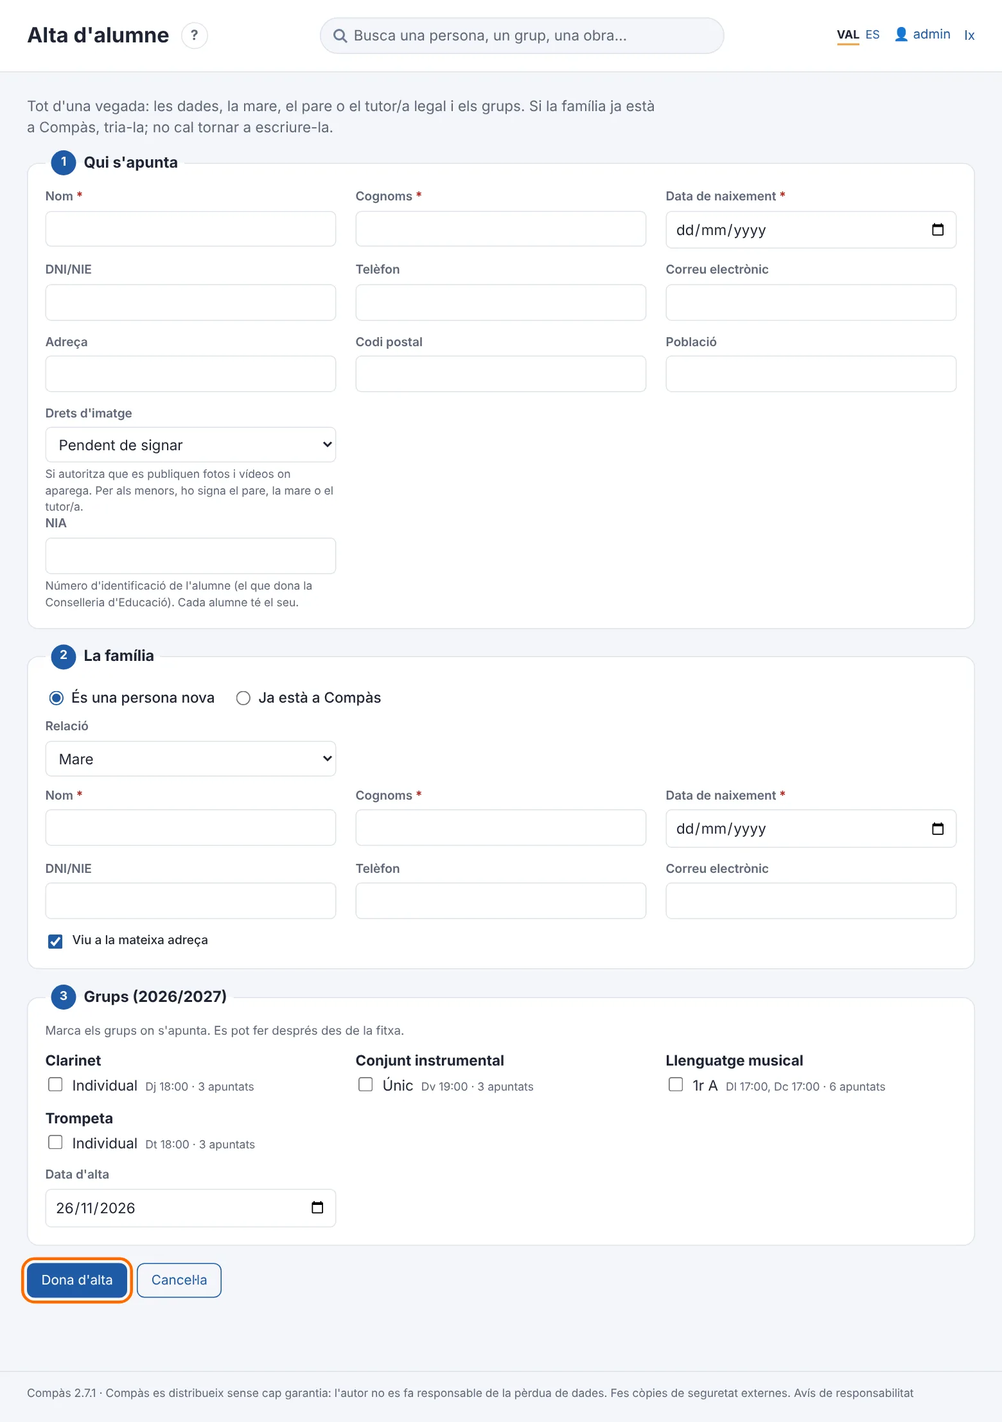
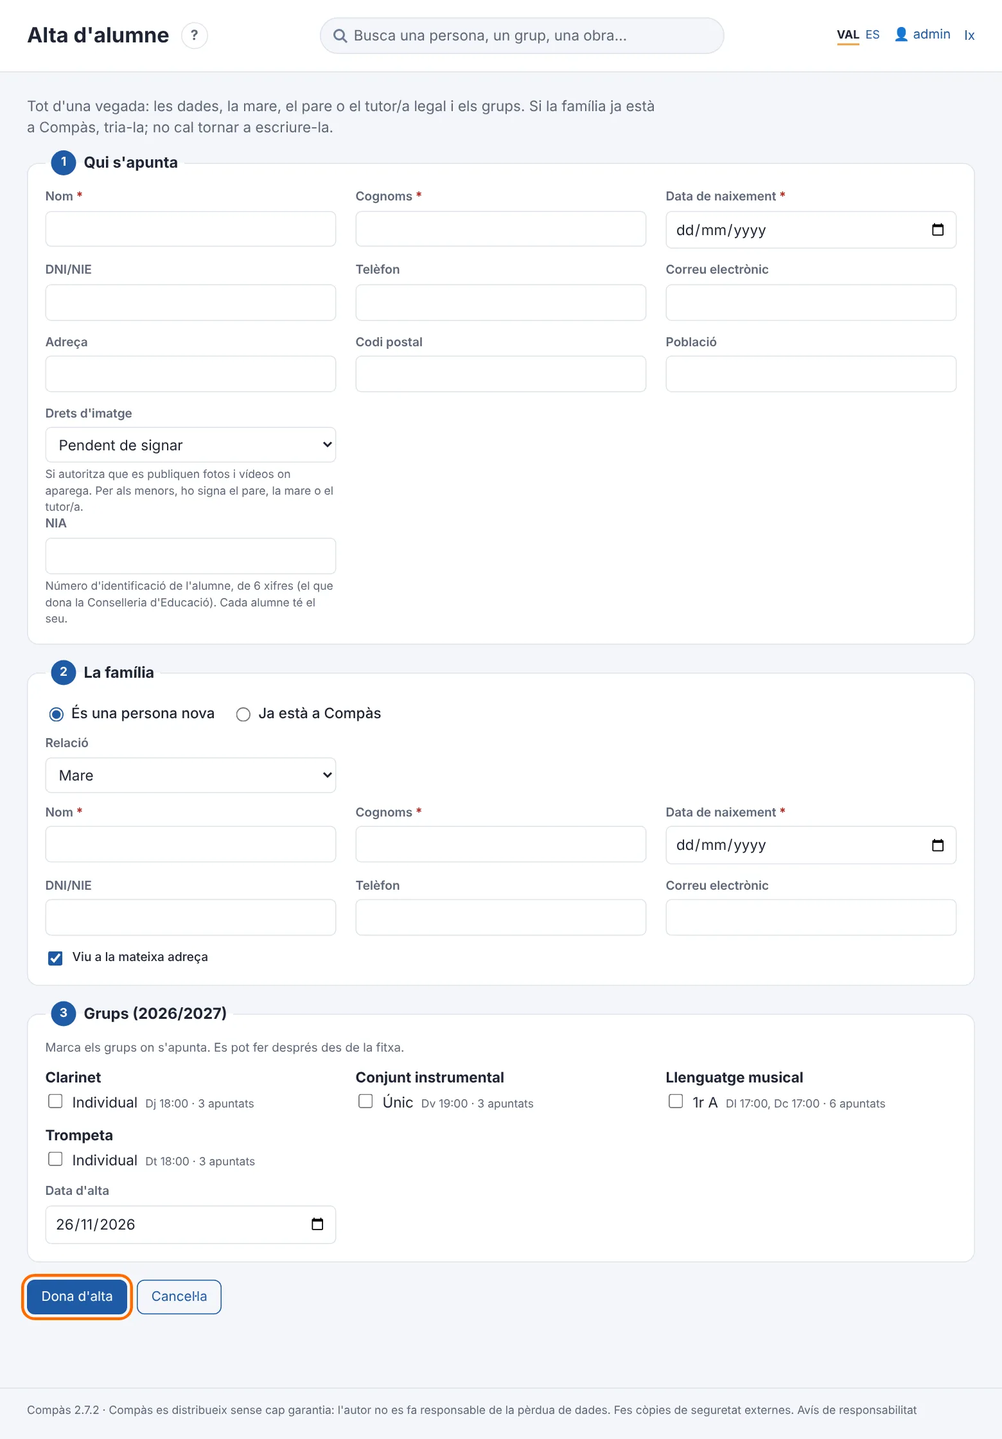
Compàs 2.7.2: NIA de 6 xifres i contracte de cessió des de les fitxes
- NIA: 6 xifres a la fitxa, l'alta i la importació (torna a posar el zero de
  davant que lleven els fulls); columna al llistat d'alumnes del grup.
- Contracte de cessió també des de la fitxa de la persona i de l'alumne.
- Versió 2.7.2, manuals, captures i CHANGELOG.

Claude-Session: https://claude.ai/code/session_0169XezsNjEBujQSVEUw5YWw

diff --git a/src/entitats.php b/src/entitats.php
@@ -149,6 +149,25 @@ function seguent_numero_soci(): string
     return (string)(max($max, (int)config('ultim_numero_soci')) + 1);
 }
 
+/** El NIA (número d'identificació de l'alumne) té 6 xifres */
+function nia_valid(?string $nia): bool
+{
+    return $nia === null || $nia === '' || preg_match('/^\d{6}$/', $nia) === 1;
+}
+
+/** Error del NIA d'un alumne (format o repetit), o null si és correcte */
+function error_nia(?string $nia, ?int $alumneId): ?string
+{
+    if ($nia === null || $nia === '') {
+        return null;
+    }
+    if (!nia_valid($nia)) {
+        return t('err.nia_format', $nia);
+    }
+    $ja = valor('SELECT ' . NOM_PERSONA_SQL . ' FROM alumnes a JOIN persones p ON p.id = a.persona_id WHERE a.nia = ? AND a.id IS NOT ?', [$nia, $alumneId]);
+    return $ja ? t('err.nia', $nia, (string)$ja) : null;
+}
+
 /** Recorda el número més alt donat, perquè no es torne a donar encara que s'esborre el soci */
 function recorda_numero_soci(?string $numero): void
 {
@@ -180,6 +199,20 @@ function dades_que_falten(array $p): array
 function boto_document(string $url, string $text): string
 {
     return '<a class="boto secundari" target="_blank" href="' . h($url) . '">🖨 ' . h($text) . '</a>';
+}
+
+/** Botons del contracte de cada instrument que la persona té ara cedit (per a la seua fitxa i la d'alumne) */
+function botons_contracte_cessio(int $personaId): string
+{
+    if (!pot('instruments.view') || es_consultor() || !disponible('cessions')) {
+        return '';
+    }
+    $html = '';
+    foreach (q('SELECT c.id, i.inventari, i.tipus FROM cessions c JOIN instruments i ON i.id = c.instrument_id
+        WHERE c.persona_id = ? AND c.data_retorn IS NULL ORDER BY c.data_entrega', [$personaId])->fetchAll() as $c) {
+        $html .= boto_document(url('contracte_cessio', ['id' => $c['id']]), t('cessio.boto_de', $c['tipus'] . ' ' . $c['inventari']));
+    }
+    return $html;
 }
 
 function entitats(): array
@@ -230,7 +263,7 @@ function entitats(): array
                 'actiu' => ['tipus' => 'bool', 'llista' => 1, 'defecte' => 1],
             ] + ($ambIban ? ['iban' => camp_iban(fn(array $f) => $f['id'] ?? null) + ['nomes_major' => 1]] : [])
               + ['categoria' => ['tipus' => 'text', 'virtual' => 1, 'nomes_fitxa' => 1, 'carrega' => fn(array $f) => categoria_edat($f['data_naixement'] ?? null)]],
-            'accions_fitxa' => fn(array $f) => boto_document(url('consentiment', ['persona' => $f['id']]), t('consent.full')),
+            'accions_fitxa' => fn(array $f) => boto_document(url('consentiment', ['persona' => $f['id']]), t('consent.full')) . botons_contracte_cessio((int)$f['id']),
             'fills' => [['socis', 'persona_id'], ['alumnes', 'persona_id'], ['professors', 'persona_id'],
                 ['membres', 'persona_id'], ['tutories', 'tutor_id'], ['cessions', 'persona_id'],
                 ['mandats', 'persona_id'], ['rebuts', 'persona_id'], ['carrecs', 'persona_id'], ['carrecs_festa', 'persona_id'], ['llicencies', 'persona_id'],
@@ -266,10 +299,10 @@ function entitats(): array
         'alumnes' => ['cerca' => ['p.nom', 'p.cognoms', 't.nia']] + $perfil('alumnes') + [
             'cap' => 'escola',
             'filtres' => ['sense_nia' => "t.nia IS NULL AND t.estat = 'actiu'"],
-            'accions_fitxa' => fn(array $f) => boto_document(url('consentiment', ['persona' => $f['persona_id']]), t('consent.full')),
+            'accions_fitxa' => fn(array $f) => boto_document(url('consentiment', ['persona' => $f['persona_id']]), t('consent.full')) . botons_contracte_cessio((int)$f['persona_id']),
             'camps' => [
                 'persona_id' => $persona,
-                'nia' => ['tipus' => 'text', 'llista' => 1, 'ajuda' => t('ajuda.nia')],
+                'nia' => ['tipus' => 'text', 'llista' => 1, 'ajuda' => t('ajuda.nia'), 'attrs' => 'inputmode="numeric" pattern="[0-9]{6}" maxlength="6"'],
                 'data_alta' => ['tipus' => 'date', 'llista' => 1, 'defecte' => 'avui'],
                 'data_baixa' => ['tipus' => 'date'],
                 'estat' => $estat,
@@ -277,8 +310,7 @@ function entitats(): array
                 'descompte_pct' => ['tipus' => 'decimal', 'pct' => 1, 'ajuda' => t('ajuda.descompte_pct'), 'secundari' => 1],
                 'observacions' => $obs,
             ],
-            'valida' => fn(array $d, ?int $id) => $d['nia'] !== null && valor('SELECT id FROM alumnes WHERE nia = ? AND id IS NOT ?', [$d['nia'], $id])
-                ? t('err.nia', $d['nia'], (string)valor('SELECT ' . NOM_PERSONA_SQL . ' FROM alumnes a JOIN persones p ON p.id = a.persona_id WHERE a.nia = ?', [$d['nia']])) : null,
+            'valida' => fn(array $d, ?int $id) => error_nia($d['nia'], $id),
             'fills' => [['tutories', 'alumne_id'], ['matricules', 'alumne_id']],
         ],
         'professors' => $perfil('professors') + [

diff --git a/src/lang/es.php b/src/lang/es.php
@@ -448,7 +448,7 @@ return [
     'consent.text' => 'que se tomen fotografías y vídeos en los que aparezca durante las clases, ensayos, conciertos, desfiles y otras actividades de la entidad, y que se publiquen en la página web, las redes sociales, la revista, los carteles y otros medios de comunicación propios de la entidad, siempre sin finalidad comercial.',
     'consent.legal' => 'Esta autorización se otorga de acuerdo con la Ley Orgánica 1/1982, de protección civil del derecho al honor, a la intimidad personal y familiar y a la propia imagen, el Reglamento (UE) 2016/679 general de protección de datos y la Ley Orgánica 3/2018. Es válida mientras no se revoque, y se puede revocar en cualquier momento comunicándolo por escrito a la entidad. Responsable del tratamiento: %s. Puede ejercer los derechos de acceso, rectificación, supresión, oposición, limitación del tratamiento y portabilidad dirigiéndose a la entidad%s.',
     'consent.lloc_data' => 'En ______________________, a ____ de ______________________ de ________',
-    'cessio.titol' => 'Contrato de cesión de instrumento', 'cessio.boto' => 'Contrato de cesión',
+    'cessio.titol' => 'Contrato de cesión de instrumento', 'cessio.boto' => 'Contrato de cesión', 'cessio.boto_de' => 'Contrato: %s',
     'cessio.consell' => 'Imprímelo dos veces: una copia para la entidad y otra para quien se lleva el instrumento.',
     'cessio.entitat' => 'De una parte, ', 'cessio.entitat_en_nom' => ', en nombre y representación de %s, como entidad que cede el instrumento.',
     'cessio.cessionari' => 'De otra parte, la persona que lo recibe:',
@@ -693,6 +693,7 @@ return [
     'imp.av_numero' => 'El número %s ya lo tiene otra persona: se le dará el siguiente libre.',
     'imp.av_ja_alumne' => 'Ya es alumno: solo se completarán los datos.',
     'imp.av_nia' => 'El NIA %s ya lo tiene otro alumno: no se pondrá.',
+    'imp.av_nia_format' => 'El NIA «%s» no tiene 6 cifras: no se pondrá.',
     'imp.av_sense_tutor' => 'Es menor y no tiene tutor/a.',
     'imp.camp.nom' => 'Nombre',
     'imp.camp.cognoms' => 'Apellidos (o primer apellido)',
@@ -1413,7 +1414,8 @@ return [
     'err.numero_arxiu' => 'El número de archivo %s ya lo tiene otra obra.',
     'err.numero_soci' => 'El número %s ya lo tiene %s. Cada número es de una sola persona, aunque se haya dado de baja.',
     'err.nia' => 'El NIA %s ya lo tiene %s.',
-    'ajuda.nia' => 'Número de identificación del alumno (el que da la Conselleria de Educación). Cada alumno tiene el suyo.',
+    'err.nia_format' => 'El NIA debe tener 6 cifras (has escrito «%s»).',
+    'ajuda.nia' => 'Número de identificación del alumno, de 6 cifras (el que da la Conselleria de Educación). Cada alumno tiene el suyo.',
     'ajuda.numero_soci' => 'Se pone solo: el siguiente al más alto que se ha dado nunca. Los números de quienes se dan de baja no se vuelven a dar. Si la entidad ya tenía números, puedes cambiarlo.',
     'inici.numeros_repetits' => 'Hay números repetidos en %s: %s. Ahora cada número debe ser de una sola persona; cámbialos para que no se repitan.',
     'inici.nia_repetits' => 'Hay NIA repetidos en el alumnado: %s. Cada NIA es de un solo alumno.',

diff --git a/src/lang/ca.php b/src/lang/ca.php
@@ -468,7 +468,7 @@ return [
     'consent.text' => 'que es facen fotografies i vídeos en què aparega durant les classes, assajos, concerts, desfilades i altres activitats de l\'entitat, i que es publiquen en la pàgina web, les xarxes socials, la revista, els cartells i altres mitjans de comunicació propis de l\'entitat, sempre sense finalitat comercial.',
     'consent.legal' => 'Esta autorització s\'atorga d\'acord amb la Llei orgànica 1/1982, de protecció civil del dret a l\'honor, a la intimitat personal i familiar i a la pròpia imatge, el Reglament (UE) 2016/679 general de protecció de dades i la Llei orgànica 3/2018. És vàlida mentre no es revoque, i es pot revocar en qualsevol moment comunicant-ho per escrit a l\'entitat. Responsable del tractament: %s. Podeu exercir els drets d\'accés, rectificació, supressió, oposició, limitació del tractament i portabilitat adreçant-vos a l\'entitat%s.',
     'consent.lloc_data' => 'A ______________________, ____ de ______________________ de ________',
-    'cessio.titol' => 'Contracte de cessió d\'instrument', 'cessio.boto' => 'Contracte de cessió',
+    'cessio.titol' => 'Contracte de cessió d\'instrument', 'cessio.boto' => 'Contracte de cessió', 'cessio.boto_de' => 'Contracte: %s',
     'cessio.consell' => 'Imprimeix-lo dues vegades: una còpia per a l\'entitat i una altra per a qui s\'emporta l\'instrument.',
     'cessio.entitat' => 'D\'una part, ', 'cessio.entitat_en_nom' => ', en nom i representació de %s, com a entitat que cedix l\'instrument.',
     'cessio.cessionari' => 'D\'altra part, la persona que el rep:',
@@ -713,6 +713,7 @@ return [
     'imp.av_numero' => 'El número %s ja el té una altra persona: se li donarà el següent lliure.',
     'imp.av_ja_alumne' => 'Ja és alumne: només es completaran les dades.',
     'imp.av_nia' => 'El NIA %s ja el té un altre alumne: no es posarà.',
+    'imp.av_nia_format' => 'El NIA «%s» no té 6 xifres: no es posarà.',
     'imp.av_sense_tutor' => 'És menor i no té tutor/a.',
     'imp.camp.nom' => 'Nom',
     'imp.camp.cognoms' => 'Cognoms (o primer cognom)',
@@ -1433,7 +1434,8 @@ return [
     'err.numero_arxiu' => 'El número d\'arxiu %s ja el té una altra obra.',
     'err.numero_soci' => 'El número %s ja el té %s. Cada número és d\'una sola persona, encara que s\'haja donat de baixa.',
     'err.nia' => 'El NIA %s ja el té %s.',
-    'ajuda.nia' => 'Número d\'identificació de l\'alumne (el que dona la Conselleria d\'Educació). Cada alumne té el seu.',
+    'err.nia_format' => 'El NIA ha de tindre 6 xifres (has escrit «%s»).',
+    'ajuda.nia' => 'Número d\'identificació de l\'alumne, de 6 xifres (el que dona la Conselleria d\'Educació). Cada alumne té el seu.',
     'ajuda.numero_soci' => 'Es posa sol: el següent al més alt que s\'ha donat mai. Els números dels qui es donen de baixa no es tornen a donar. Si l\'entitat ja tenia números, el pots canviar.',
     'inici.numeros_repetits' => 'Hi ha números repetits a %s: %s. Ara cada número ha de ser d\'una sola persona; canvia\'ls perquè no es repetisquen.',
     'inici.nia_repetits' => 'Hi ha NIA repetits a l\'alumnat: %s. Cada NIA és d\'un sol alumne.',

diff --git a/tests/integracio/interficie.py b/tests/integracio/interficie.py
@@ -168,8 +168,13 @@ ok(nia and 'class="fitxa"' in hs and _html.escape(nomNia, quote=False) in hs, 'c
 ok('name="a_nia"' in G('r=alta_alumne'), 'alta: camp NIA')
 hn = P('r=alta_alumne', dict(base, a_nom='Duna', a_data_naixement='1995-01-01', a_document='11223344B', a_telefon='600 555 666', t_mode='cap', a_nia=nia))
 ok('class="avis error"' in hn and n("select count(*) from persones where nom = 'Duna'") == 0, 'alta: el NIA no es pot repetir')
-P('r=alta_alumne', dict(base, a_nom='Duna', a_data_naixement='1995-01-01', a_document='11223344B', a_telefon='600 555 666', t_mode='cap', a_nia='19999999'))
-ok(n("select a.nia from alumnes a join persones p on p.id = a.persona_id where p.nom = 'Duna'") == '19999999', 'alta: es guarda el NIA')
+hn = P('r=alta_alumne', dict(base, a_nom='Duna', a_data_naixement='1995-01-01', a_document='11223344B', a_telefon='600 555 666', t_mode='cap', a_nia='12345678'))
+ok('class="avis error"' in hn and n("select count(*) from persones where nom = 'Duna'") == 0, 'alta: el NIA ha de tindre 6 xifres')
+he = P(f'r=edita&e=alumnes&id={nil}', dict(persona_id=n('select persona_id from alumnes where id = ?', nil), nia='ABC123', data_alta='2026-09-10', data_baixa='', estat='actiu', pagador_id='', descompte_pct='', observacions=''))
+ok('class="avis error"' in he and n('select nia from alumnes where id = ?', nil) is None, 'fitxa: el NIA ha de tindre 6 xifres')
+ok('pattern="[0-9]{6}"' in G(f'r=edita&e=alumnes&id={nil}'), 'fitxa: el camp NIA demana 6 xifres')
+P('r=alta_alumne', dict(base, a_nom='Duna', a_data_naixement='1995-01-01', a_document='11223344B', a_telefon='600 555 666', t_mode='cap', a_nia='199999'))
+ok(n("select a.nia from alumnes a join persones p on p.id = a.persona_id where p.nom = 'Duna'") == '199999', 'alta: es guarda el NIA')
 
 # 2.8 · Contracte de cessió: amb el tutor si és menor
 ces = n("select c.id from cessions c join persones p on p.id = c.persona_id join alumnes a on a.persona_id = p.id join tutories t on t.alumne_id = a.id limit 1")
@@ -183,3 +188,12 @@ hc = G(f'r=contracte_cessio&id={ces}')
 ok(hc.count('<li>') == 2 and 'Primera condició de prova' in hc, 'contracte: condicions de la configuració')
 hl = G('r=llista&e=alumnes&filtre=sense_nia')
 ok('value="sense_nia"' in hl and not err(hl), 'alumnat: filtre sense NIA')
+pc = n('select persona_id from cessions where id = ?', ces)
+ok('r=contracte_cessio&amp;id=%d' % ces in G(f'r=fitxa&e=persones&id={pc}'), 'contracte: botó a la fitxa de la persona')
+alc = n('select id from alumnes where persona_id = ?', pc)
+ok('r=contracte_cessio&amp;id=%d' % ces in G(f'r=fitxa&e=alumnes&id={alc}'), 'contracte: botó a la fitxa de l alumne')
+
+# 2.7.2 · NIA al llistat del grup
+gnia = n("select mg.grup_id from matricula_grups mg join matricules m on m.id = mg.matricula_id join alumnes a on a.id = m.alumne_id where a.nia is not null and m.estat = 'actiu' limit 1")
+hg = G(f'r=llistats&informe=alumnes_grup&grup={gnia}')
+ok('<th>NIA</th>' in hg and not err(hg), 'llistat del grup amb el NIA')

diff --git a/tests/integracio/importacio.php b/tests/integracio/importacio.php
@@ -62,19 +62,20 @@ $ok($num('Repetit') !== $ja && (int)$num('Repetit') > $seg + 5 && (int)$num('Sen
 
 // 2.8 · Fitxers de LibreOffice (.ods) i NIA
 $files = llig_full(dirname(__DIR__) . '/fitxers/alumnes.ods', 'alumnes.ods');
-$ok(count($files) === 4 && $files[1][1] === 'Ferrer  Vidal' && $files[1][2] === '2016-03-04' && $files[1][4] === '600123456' && $files[2][1] === 'Sorribes & Fills', '.ods: dates, números, & i files buides');
+$ok(count($files) === 5 && $files[1][1] === 'Ferrer  Vidal' && $files[1][2] === '2016-03-04' && $files[1][4] === '600123456' && $files[2][1] === 'Sorribes & Fills', '.ods: dates, números, & i files buides');
 $ok(endevina_camp('NIA', 'alumnes') === 'nia' && endevina_camp('NIA', 'socis') === null, 'columna NIA reconeguda per a l alumnat');
 $imp = ['tipus' => 'alumnes', 'nom_fitxer' => 'alumnes.ods', 'capcalera' => true, 'files' => $files, 'assignacio' => array_map(fn($c) => endevina_camp($c, 'alumnes'), $files[0])];
 $a = analitza_importacio($imp);
 executa_importacio($imp, $a, array_fill(0, count($a), 0));
 $nia = fn($nom) => valor("SELECT a.nia FROM alumnes a JOIN persones p ON p.id = a.persona_id WHERE p.nom = ?", [$nom]);
-$ok($nia('Pau') === '10999001' && $nia('Àngela') === '10999002' && $nia('Noa') === null, '.ods importat amb el NIA');
+$ok($nia('Pau') === '109901' && $nia('Àngela') === '012345' && $nia('Noa') === null, '.ods importat amb el NIA (i el zero de davant que el full havia llevat)');
+$ok($nia('Iu') === null && str_contains(implode(' ', $a[3]['avisos']), '12-AB'), 'un NIA que no té 6 xifres no es posa i s avisa');
 // Tornar a importar completa el NIA dels que no en tenien, i no el posa si ja és d'un altre
 q("UPDATE alumnes SET nia = NULL WHERE persona_id = (SELECT id FROM persones WHERE nom = 'Àngela')");
-$files[3][3] = '10999001';
+$files[3][3] = '109901';
 $a = analitza_importacio(['files' => $files] + $imp);
 $mateixa = []; foreach ($a as $i => $r) $mateixa[$i] = $r['persona_id'] ? 1 : 0;
-$ok(str_contains(implode(' ', $a[2]['avisos']), '10999001'), 'avisa del NIA que ja té un altre alumne');
+$ok(str_contains(implode(' ', $a[2]['avisos']), '109901'), 'avisa del NIA que ja té un altre alumne');
 executa_importacio(['files' => $files] + $imp, $a, $mateixa);
-$ok($nia('Àngela') === '10999002', 'completa el NIA d un alumne que ja hi era');
+$ok($nia('Àngela') === '012345', 'completa el NIA d un alumne que ja hi era');
 $ok($nia('Noa') === null, 'no posa un NIA que ja és d un altre');

diff --git a/src/pages/llistats.php b/src/pages/llistats.php
@@ -100,26 +100,26 @@ function dades_informe(string $inf): ?array
             if (!$grup) {
                 return null;
             }
-            $alumnes = q("SELECT p.* FROM matricula_grups mg JOIN matricules m ON m.id = mg.matricula_id JOIN alumnes al ON al.id = m.alumne_id
+            $alumnes = q("SELECT p.*, al.nia FROM matricula_grups mg JOIN matricules m ON m.id = mg.matricula_id JOIN alumnes al ON al.id = m.alumne_id
                 JOIN persones p ON p.id = al.persona_id WHERE mg.grup_id = ? AND m.estat = 'actiu' ORDER BY p.cognoms, p.nom", [$grup['id']])->fetchAll();
             $files = [];
+            $ambNia = (bool)array_filter(array_column($alumnes, 'nia'));
             foreach ($alumnes as $a) {
                 $tutors = tutors_persona((int)$a['id']);
-                $files[] = [
-                    nom_complet($a),
+                $files[] = array_merge([nom_complet($a)], $ambNia ? [(string)$a['nia']] : [], [
                     (string)(edat($a['data_naixement']) ?? ''),
                     implode("\n", array_map(fn($tu) => trim($tu['nom'] . ' ' . $tu['cognoms']) . ($tu['tipus_relacio'] ? ' (' . t('opt.' . $tu['tipus_relacio']) . ')' : ''), $tutors)),
                     implode("\n", array_filter($tutors ? array_column($tutors, 'telefon') : [$a['telefon']])),
                     implode("\n", array_filter($tutors ? array_column($tutors, 'email') : [$a['email']])),
                     t('imatge.' . $a['consentiment_imatge']),
-                ];
+                ]);
             }
             return [
                 'titol' => $grup['assignatura'] . ' · ' . $grup['nom'],
                 'subtitol' => t('camp.curs_id') . ' ' . $grup['curs'] . ($grup['professor'] ? ' · ' . t('camp.professor_id') . ': ' . $grup['professor'] : ''),
                 'seccions' => [[
-                    'cols' => [t('ent1.alumnes'), t('llist.edat'), t('llist.tutors'), t('camp.telefon'), t('camp.email'), t('llist.imatge')],
-                    'num' => [1], 'files' => $files,
+                    'cols' => array_merge([t('ent1.alumnes')], $ambNia ? [t('camp.nia')] : [], [t('llist.edat'), t('llist.tutors'), t('camp.telefon'), t('camp.email'), t('llist.imatge')]),
+                    'num' => [$ambNia ? 2 : 1], 'files' => $files,
                     'destacats' => array_keys(array_filter($alumnes, fn($a) => $a['consentiment_imatge'] !== 'autoritza')),
                 ]],
                 'nota' => t('llist.nota_imatge'),

diff --git a/src/pages/alta.php b/src/pages/alta.php
@@ -130,9 +130,9 @@ function pagina_alta_alumne(): void
                 $dupId = (int)$dup;
             }
         }
-        $nia = trim((string)post('a_nia')) ?: null;
-        if ($nia !== null && ($ja = valor('SELECT ' . NOM_PERSONA_SQL . ' FROM alumnes a JOIN persones p ON p.id = a.persona_id WHERE a.nia = ?', [$nia]))) {
-            $errors[] = t('err.nia', $nia, (string)$ja);
+        $nia = preg_replace('/\s+/', '', (string)post('a_nia')) ?: null;
+        if ($e = error_nia($nia, null)) {
+            $errors[] = $e;
         }
         $grups = array_values(array_unique(array_filter(array_map('intval', (array)($_POST['grups'] ?? [])))));
         if (!$errors) {
@@ -196,7 +196,7 @@ function pagina_alta_alumne(): void
         }
         $html .= '</div>';
     }
-    $html .= '<div class="camps">' . camp_formulari('a_nia', ['tipus' => 'text', 'etiqueta' => 'camp.nia', 'ajuda' => t('ajuda.nia')], $v('a_nia')) . '</div>';
+    $html .= '<div class="camps">' . camp_formulari('a_nia', ['tipus' => 'text', 'etiqueta' => 'camp.nia', 'ajuda' => t('ajuda.nia'), 'attrs' => 'inputmode="numeric" pattern="[0-9]{6}" maxlength="6"'], $v('a_nia')) . '</div>';
     $html .= '</fieldset>';
     // 2. La família
     $modeT = $v('t_mode', 'nova');

diff --git a/src/exemple/societat_musical.php b/src/exemple/societat_musical.php
@@ -195,7 +195,7 @@ while ($i < count($plans)) {
         $instr = $edat >= 7 && $bossaInstr ? array_pop($bossaInstr) : null;
         // NIA: el que té l'alumnat de l'escola de música (n'hi ha algun que encara no l'ha portat)
         q('INSERT INTO alumnes(persona_id, nia, data_alta, descompte_pct, observacions) VALUES(?,?,?,?,?)',
-            [$p, count($alumnes) % 13 !== 5 ? (string)(10380000 + 23 * count($alumnes)) : null, $alta, $prob(.02) ? 50 : null, $prob(.04) ? $tr('Beca de l\'ajuntament', 'Beca del ayuntamiento') : null]);
+            [$p, count($alumnes) % 13 !== 5 ? (string)(380000 + 23 * count($alumnes)) : null, $alta, $prob(.02) ? 50 : null, $prob(.04) ? $tr('Beca de l\'ajuntament', 'Beca del ayuntamiento') : null]);
         $al = $id();
         foreach ($tutors as $k => [$t, $rel]) {
             q('INSERT INTO tutories(alumne_id, tutor_id, tipus_relacio, principal, rep_comunicacions) VALUES(?,?,?,?,?)', [$al, $t, $rel, $k === 0 ? 1 : 0, $k === 0 || $prob(.6) ? 1 : 0]);

diff --git a/src/pages/importacio.php b/src/pages/importacio.php
@@ -382,7 +382,15 @@ function analitza_importacio(array $imp): array
                 $numeros[$num] = true;
             }
         } elseif ($tipus === 'alumnes') {
-            $nia = trim($v('nia'));
+            // Els fulls de càlcul lleven els zeros de davant dels números: «012345» arriba com «12345»
+            $nia = preg_replace('/\s+/', '', $v('nia'));
+            if ($nia !== '' && ctype_digit($nia) && strlen($nia) < 6) {
+                $nia = str_pad($nia, 6, '0', STR_PAD_LEFT);
+            }
+            if (!nia_valid($nia)) {
+                $r['avisos'][] = t('imp.av_nia_format', $v('nia'));
+                $nia = '';
+            }
             $r['extra'] = ['data_alta' => data_importada($v('data_alta')), 'nia' => $nia];
             if ($r['persona_id'] && isset($alumnes[$r['persona_id']])) {
                 $r['avisos'][] = t('imp.av_ja_alumne');

diff --git a/src/pages/exemple.php b/src/pages/exemple.php
@@ -82,7 +82,7 @@ function carrega_dades_exemple(): void
     foreach (range(1, 6) as $n) {
         $p = $persona($nomsAlumnes[$n][0], $nomsAlumnes[$n][1], ($any - 8 - $n) . '-0' . (($n % 9) + 1) . '-1' . $n);
         $alumnesPersona[] = $p;
-        q('INSERT INTO alumnes(persona_id, nia, data_alta) VALUES(?, ?, ?)', [$p, (string)(10452300 + 17 * $n), "$any-09-10"]);
+        q('INSERT INTO alumnes(persona_id, nia, data_alta) VALUES(?, ?, ?)', [$p, (string)(452300 + 17 * $n), "$any-09-10"]);
         $al = $id();
         q('INSERT INTO tutories(alumne_id, tutor_id, tipus_relacio, principal) VALUES(?, ?, ?, 1)', [$al, $tutors[($n - 1) % 3], ['mare', 'pare', 'tutor_legal'][($n - 1) % 3]]);
         q('INSERT INTO matricules(alumne_id, curs_id, data) VALUES(?, ?, ?)', [$al, $curs, "$any-09-10"]);

diff --git a/src/crud.php b/src/crud.php
@@ -572,6 +572,8 @@ function camp_formulari(string $c, array $d, $v): string
         default:
             $tipus = ['date' => 'date', 'time' => 'time', 'email' => 'email', 'tel' => 'tel', 'number' => 'number', 'decimal' => 'text'][$d['tipus']] ?? 'text';
             $extra = $d['tipus'] === 'decimal' ? ' inputmode="decimal"' : '';
+            // Atributs fixos de la definició (per exemple, el format del NIA: pattern, maxlength, inputmode)
+            $extra .= isset($d['attrs']) ? ' ' . $d['attrs'] : '';
             if ($d['tipus'] === 'talla') {
                 // Les talles de cada article: app.js mostra només les de l'article triat
                 $talles = $preus = [];

diff --git a/src/bootstrap.php b/src/bootstrap.php
@@ -5,7 +5,7 @@
 
 declare(strict_types=1);
 
-const COMPAS_VERSIO = '2.7.1';
+const COMPAS_VERSIO = '2.7.2';
 const SRC_DIR = __DIR__;
 
 define('ARREL_DIR', dirname(__DIR__));
